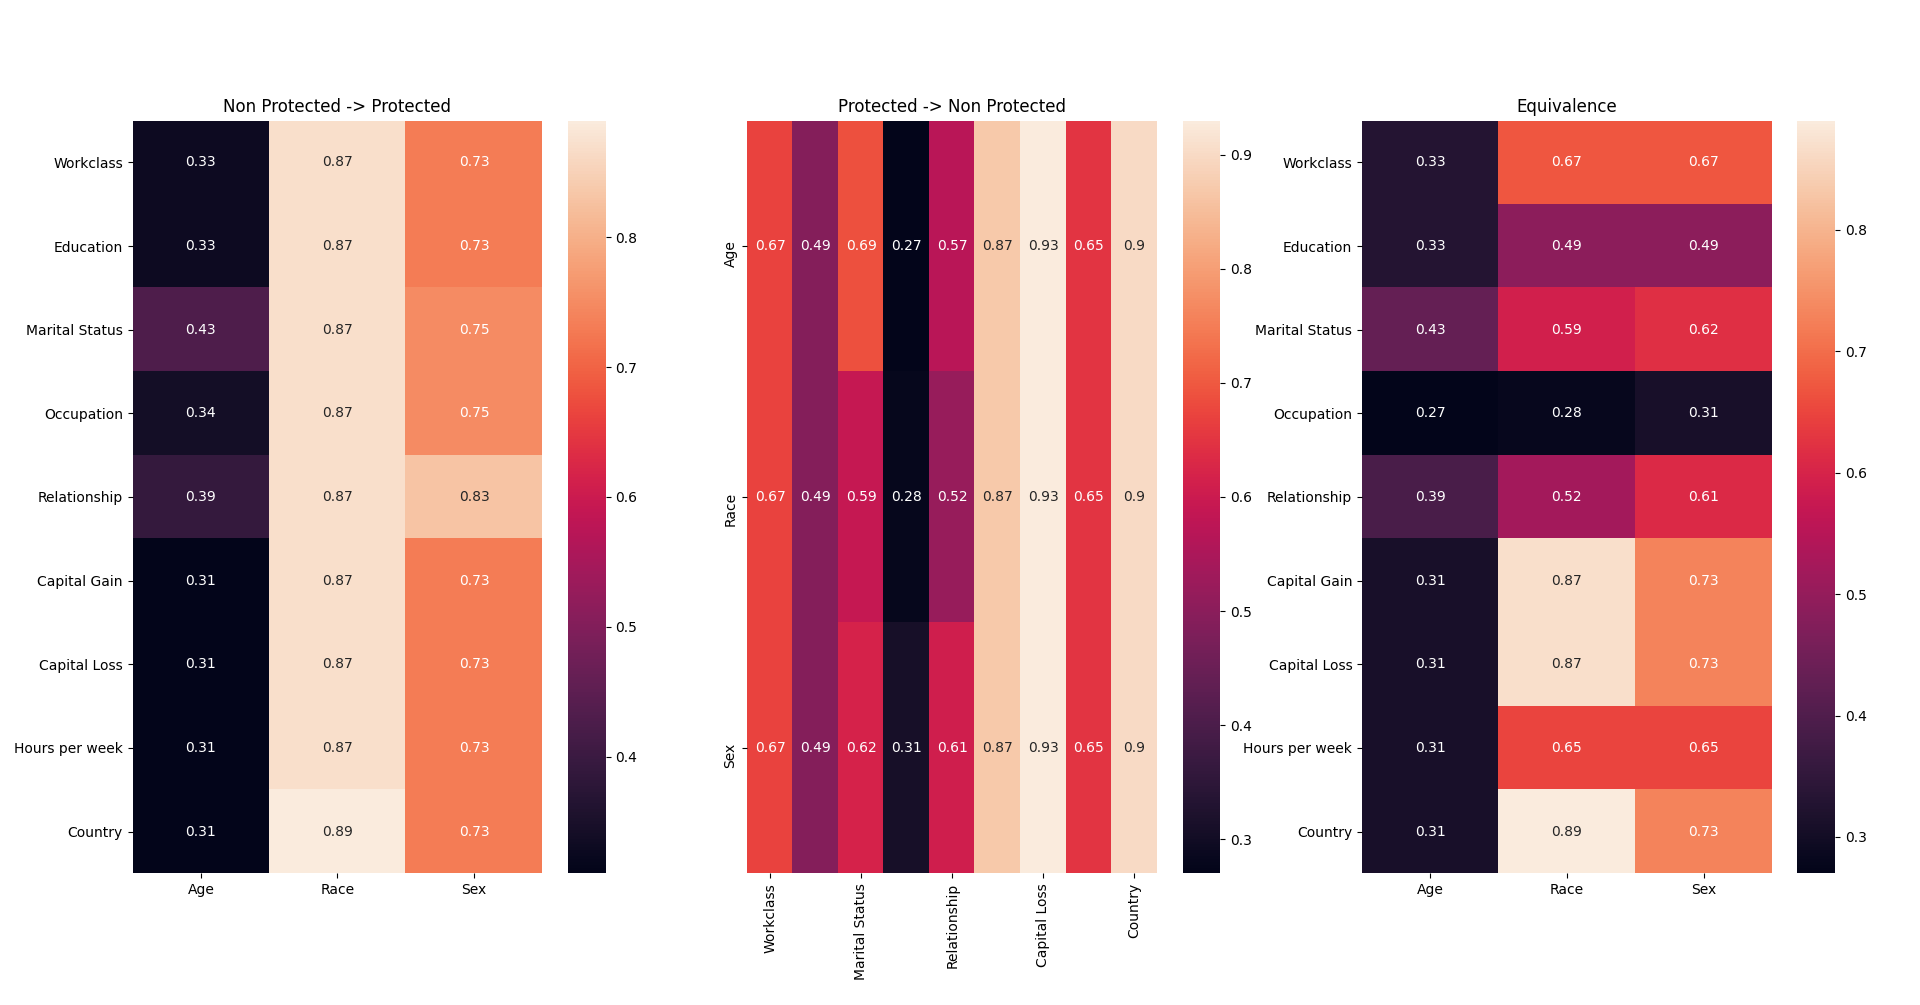
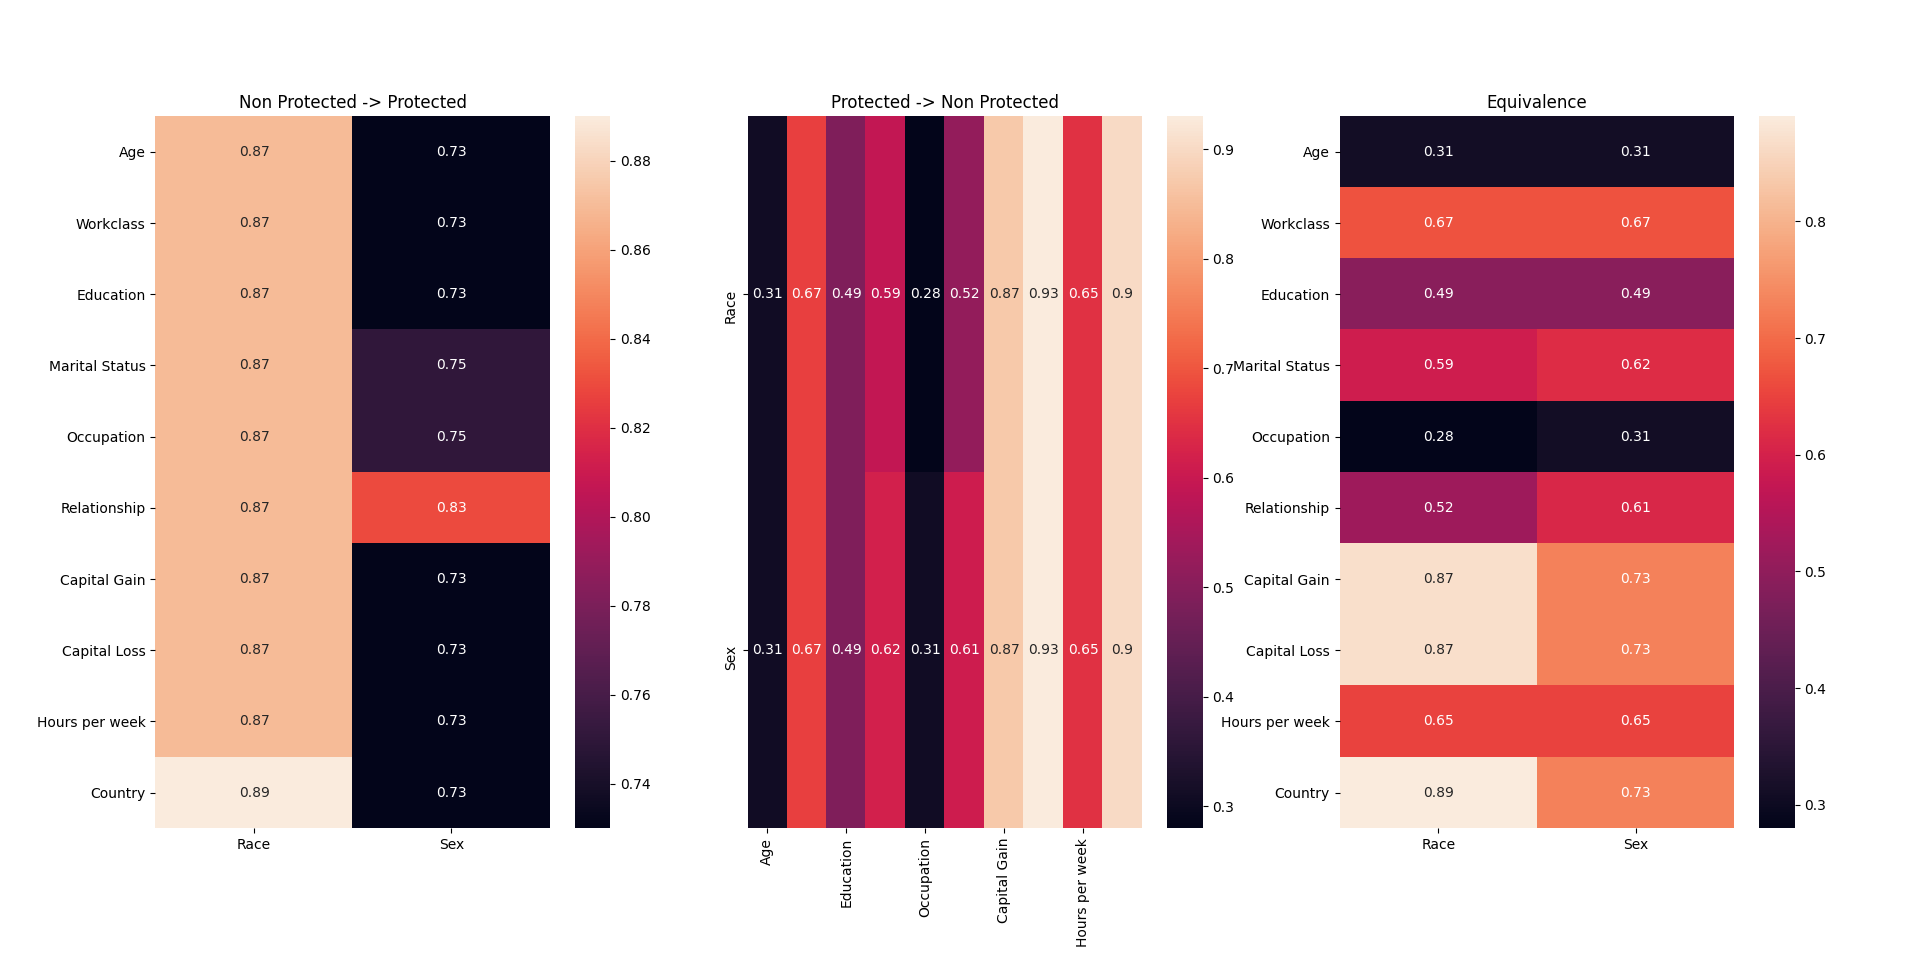
Fixed a few results that were faulty

diff --git a/src/proxdetect/implication/cat_implication.py b/src/proxdetect/implication/cat_implication.py
@@ -170,6 +170,8 @@ def visualizeAttributeImp(data, np_num, p_num):
             right_implication[nproc_value] = [1, {proc_value: 1}]
 
     left_imp_scores = dict()
+    right_imp_scores = dict()
+
     for v in left_implication: 
         abs_occurence = left_implication[v][0]
         for nproc_value in left_implication[v][1]:
@@ -178,9 +180,8 @@ def visualizeAttributeImp(data, np_num, p_num):
             else:
                 left_imp_scores[v] = {nproc_value: round(left_implication[v][1][nproc_value]/abs_occurence, 3) }
 
-    print(left_imp_scores)
+    #print(left_imp_scores)
 
-    right_imp_scores = dict()
     for v in right_implication: 
         abs_occurence = right_implication[v][0]
         for proc_value in right_implication[v][1]:
@@ -189,17 +190,18 @@ def visualizeAttributeImp(data, np_num, p_num):
             else:
                 right_imp_scores[v] = {proc_value: round(right_implication[v][1][proc_value]/abs_occurence, 3) }
 
-    print(right_imp_scores)
+    #print(right_imp_scores)
 
-    left = pd.DataFrame.from_dict(left_imp_scores).transpose()
-    right = pd.DataFrame.from_dict(right_imp_scores).transpose()
+    left = pd.DataFrame.from_dict(left_imp_scores).transpose().fillna(0)
+    print(left)
+    right = pd.DataFrame.from_dict(right_imp_scores).transpose().fillna(0)
 
     f, (ax1, ax2) = plt.subplots(ncols=2)
 
+    
+    sns.heatmap(left, cmap="mako", annot=True, fmt = 'g', ax=ax2)
+    sns.heatmap(right, cmap="mako", annot=True, fmt = 'g', ax=ax1)
 
-    sns.heatmap(left, annot=True, fmt = 'g', ax=ax2)
-    sns.heatmap(right, annot=True, fmt = 'g', ax=ax1)
- 
     ax1.set_title("{} -> {}".format(feature_labels[np_num], feature_labels[p_num]))
     ax2.set_title("{} -> {}".format(feature_labels[p_num], feature_labels[np_num]))
     
